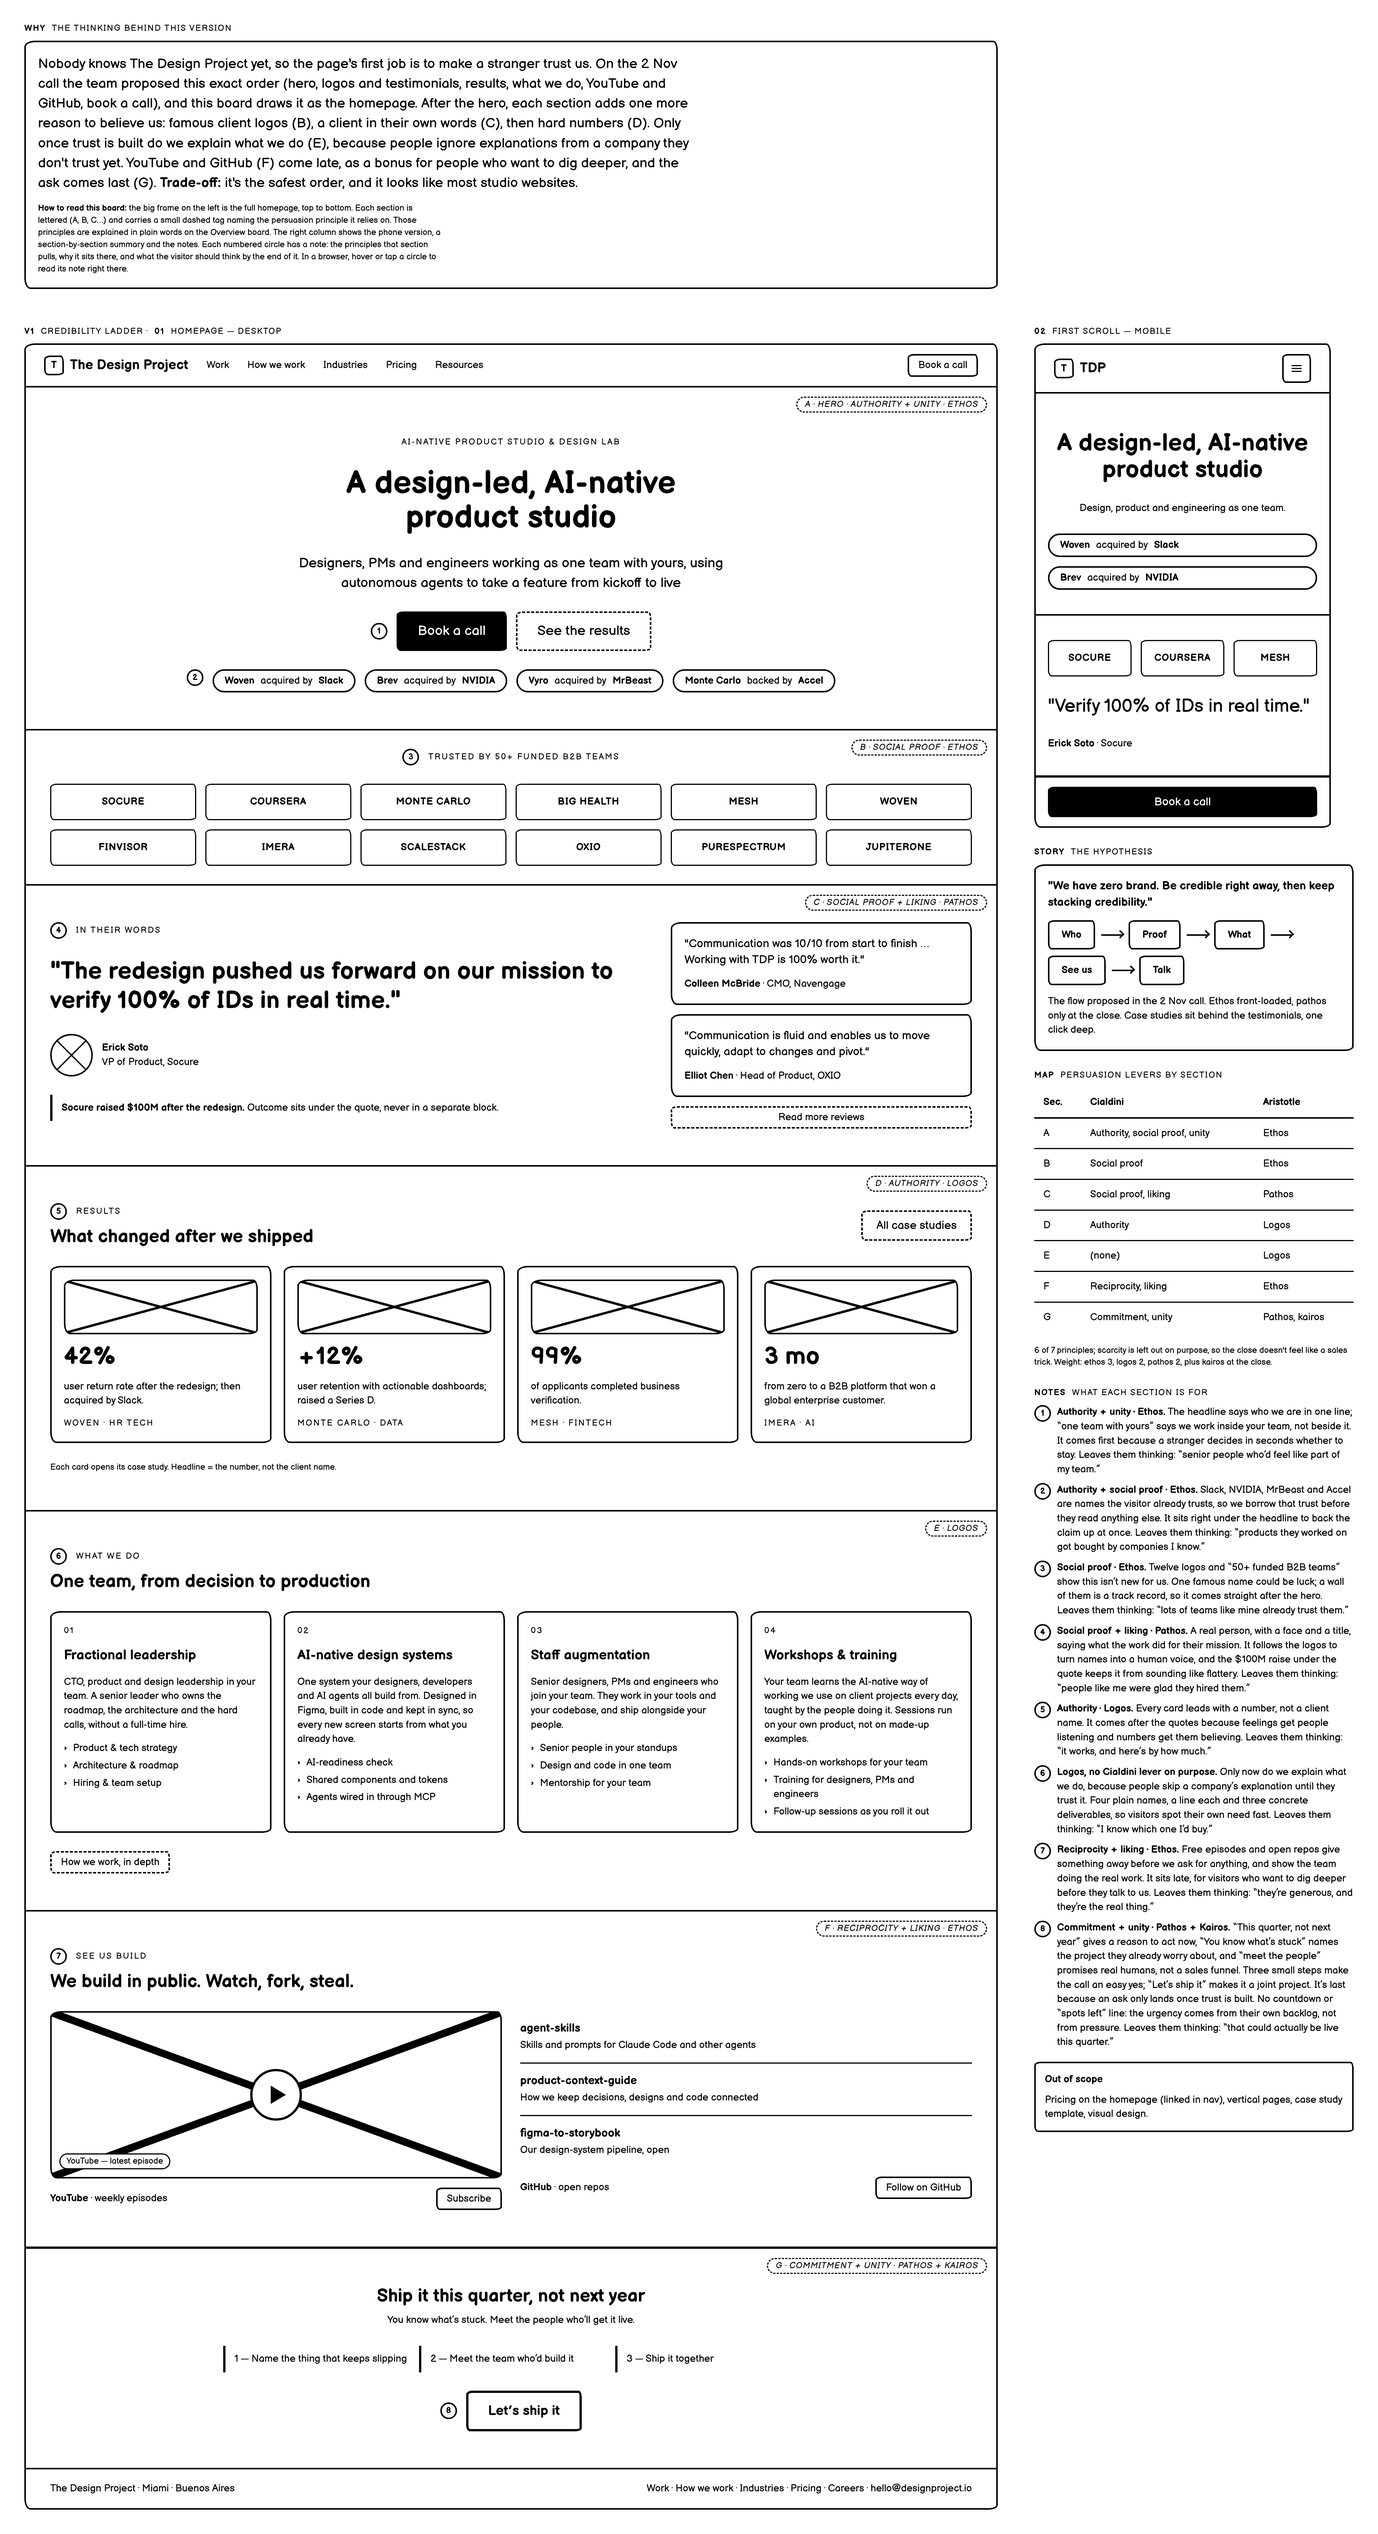
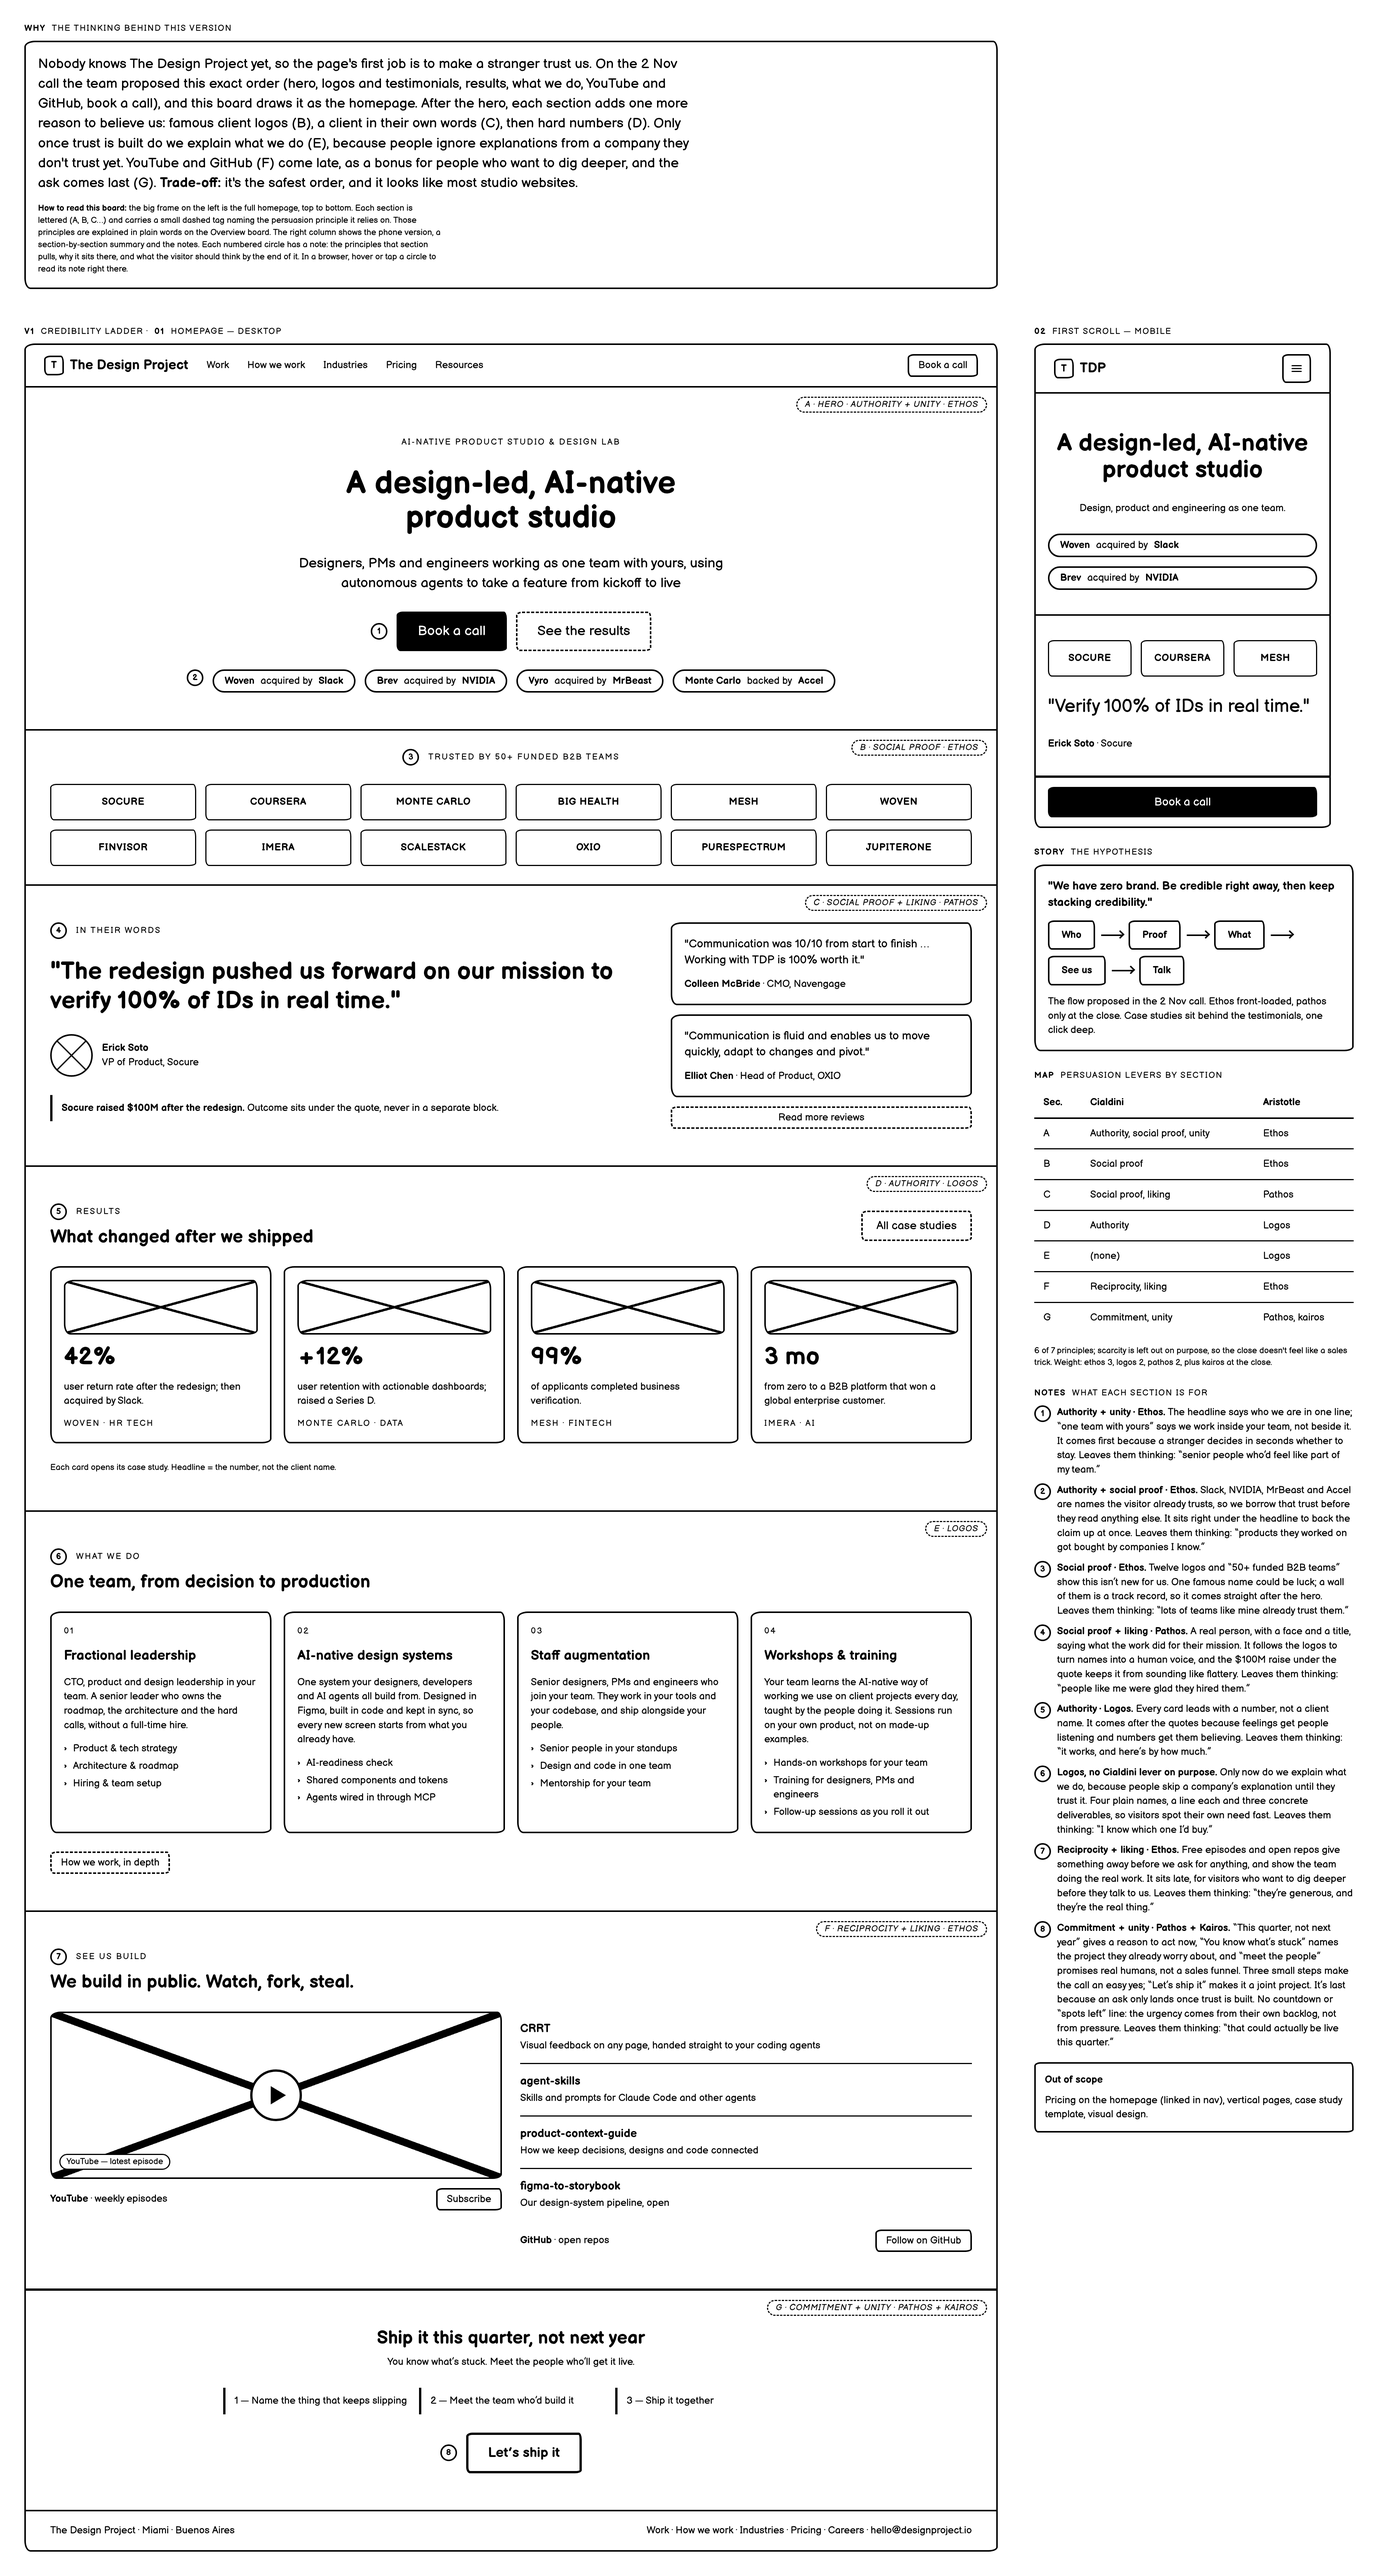
feat(wireframes): V1 'See us build' lists CRRT
CRRT (github.com/thedesignproject/CRRT): visual feedback on any page,
handed straight to coding agents. First in the open-repos list.

diff --git a/wireframes/designproject-io/v1-credibility-ladder.standalone.html b/wireframes/designproject-io/v1-credibility-ladder.standalone.html
@@ -920,6 +920,7 @@ small { font-size: var(--fs-xs); }
           </div>
           <div class="stack">
             <ul class="list">
+              <li class="list__item"><div><strong>CRRT</strong><br><span class="muted">Visual feedback on any page, handed straight to your coding agents</span></div></li>
               <li class="list__item"><div><strong>agent-skills</strong><br><span class="muted">Skills and prompts for Claude Code and other agents</span></div></li>
               <li class="list__item"><div><strong>product-context-guide</strong><br><span class="muted">How we keep decisions, designs and code connected</span></div></li>
               <li class="list__item"><div><strong>figma-to-storybook</strong><br><span class="muted">Our design-system pipeline, open</span></div></li>

diff --git a/wireframes/designproject-io/v1-credibility-ladder.html b/wireframes/designproject-io/v1-credibility-ladder.html
@@ -205,6 +205,7 @@
           </div>
           <div class="stack">
             <ul class="list">
+              <li class="list__item"><div><strong>CRRT</strong><br><span class="muted">Visual feedback on any page, handed straight to your coding agents</span></div></li>
               <li class="list__item"><div><strong>agent-skills</strong><br><span class="muted">Skills and prompts for Claude Code and other agents</span></div></li>
               <li class="list__item"><div><strong>product-context-guide</strong><br><span class="muted">How we keep decisions, designs and code connected</span></div></li>
               <li class="list__item"><div><strong>figma-to-storybook</strong><br><span class="muted">Our design-system pipeline, open</span></div></li>
